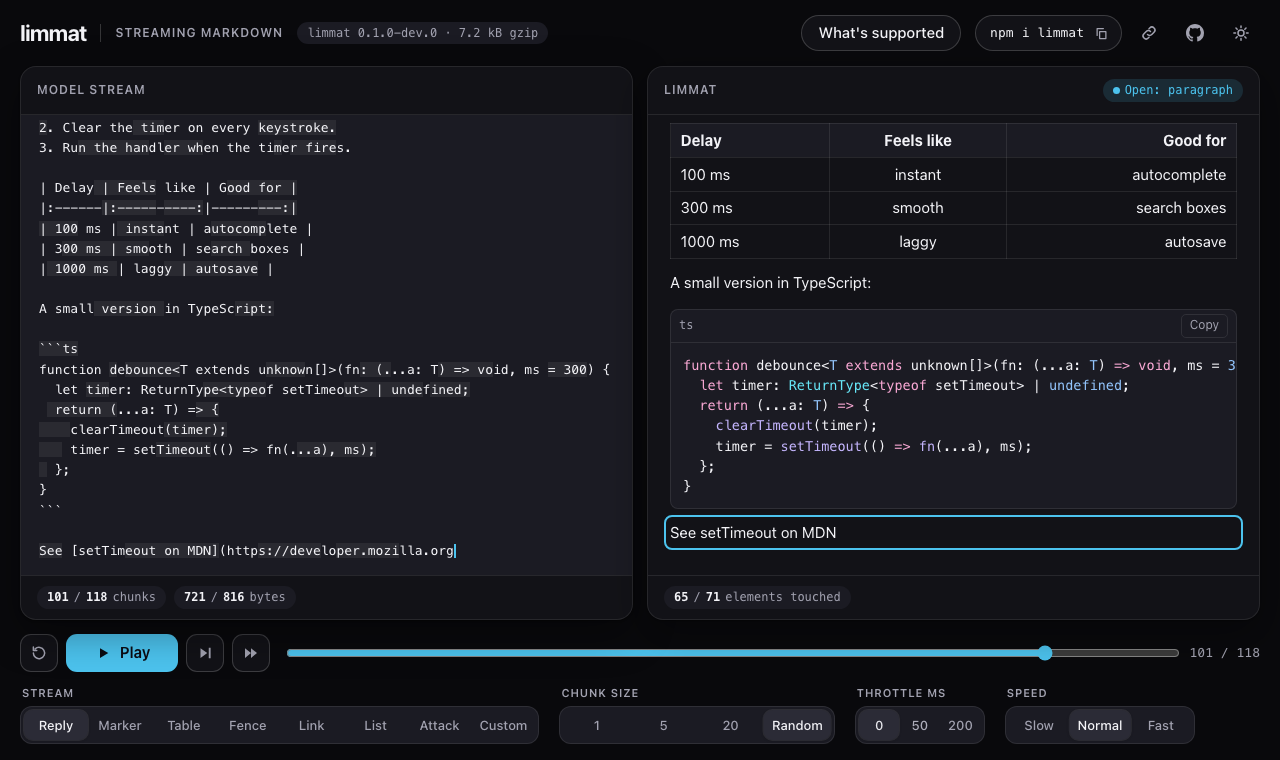
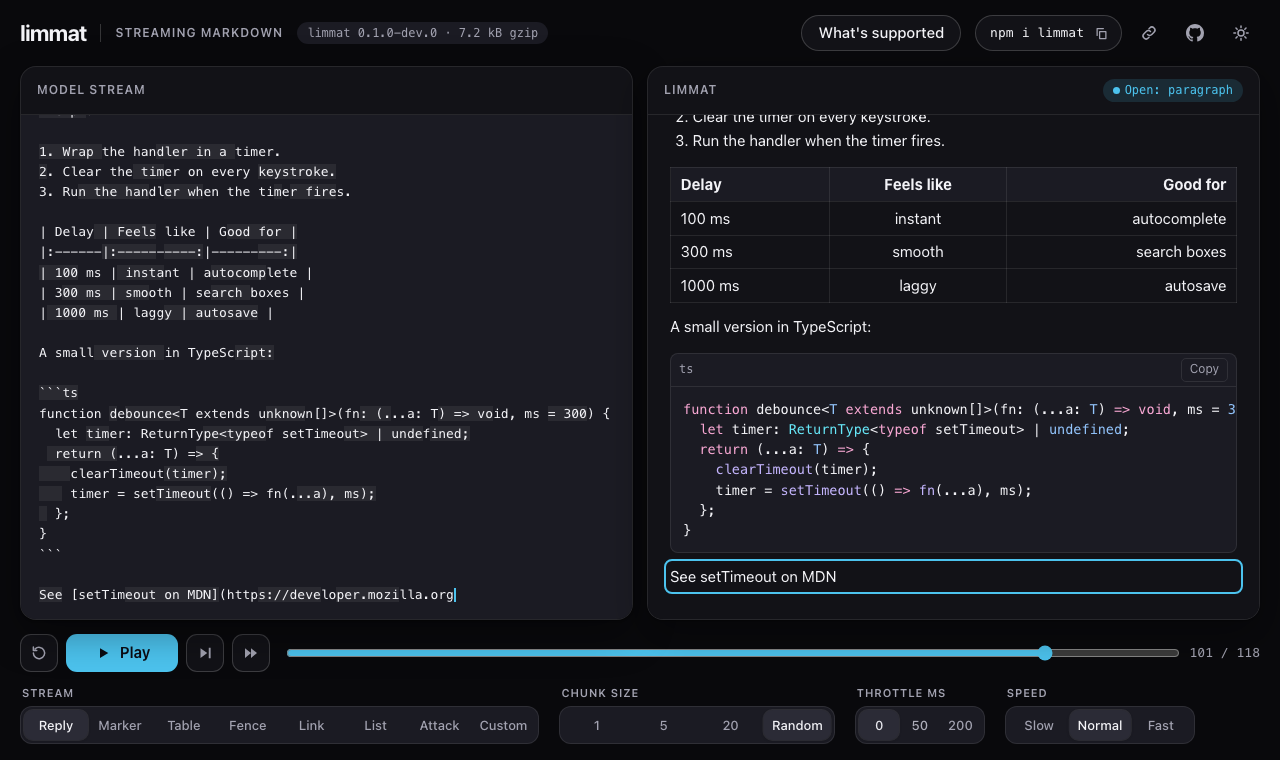
feat(demo): remove the pane footers and move the attack verdict into the output header, in words

diff --git a/browser/demo.spec.ts b/browser/demo.spec.ts
@@ -70,7 +70,7 @@ test('chunk size changes the stream, and Random again reshuffles the cuts', asyn
   await pick(page, 'size', '1');
   await page.click('#finish');
   const chars = Array.from((await page.locator('#raw').textContent())!).length;
-  await expect(page.locator('#v-chunks')).toHaveText(String(chars));
+  await expect(page.locator('#pos')).toHaveAttribute('max', String(chars));
   await pick(page, 'size', 'random');
   const seed = () => new URL(page.url().replace('#', '?')).searchParams.get('s');
   const first = await seed();
@@ -82,10 +82,9 @@ test('the Attack stream runs nothing, loads nothing, and shows the payloads as t
   await open(page);
   await pick(page, 'stream', 'hostile');
   await page.click('#finish');
-  // Twelve attacks went in (counted by pattern in the input), and none came out as a live element.
+  // Hostile input went in (counted by pattern in the text), and nothing came out as a live element.
   await expect(page.locator('#chip-attacks')).toBeVisible();
-  expect(Number(await page.locator('#v-in').textContent())).toBeGreaterThanOrEqual(10);
-  await expect(page.locator('#v-through')).toHaveText('0');
+  await expect(page.locator('#chip-attacks')).toHaveText('Nothing unsafe got through');
   await expect(page.locator('#chip-attacks')).toHaveClass(/safe/);
   const out = page.locator('#out');
   expect(await out.locator('script, img, [onerror], [onclick]').count()).toBe(0);
@@ -116,7 +115,7 @@ test('a chip turns red if the output ever has something unsafe in it', async ({ 
     document.querySelector('#out')!.append(a);
   });
   await expect(page.locator('#chip-attacks')).toHaveClass(/bad/);
-  await expect(page.locator('#v-through')).toHaveText('1');
+  await expect(page.locator('#chip-attacks')).toHaveText('Something unsafe got through');
 });
 
 test('a shared link restores the settings and plays the same chunks', async ({ page }) => {
@@ -176,7 +175,7 @@ test('pasted hostile text is only text, and the proof still holds', async ({ pag
   expect(await page.locator('#out img, #out script, #out a').count()).toBe(0);
   expect(await page.locator('#out').textContent()).toContain('<img src=x onerror=alert(1)>');
   await expect(page.locator('#chip-attacks')).toBeVisible();
-  await expect(page.locator('#v-through')).toHaveText('0');
+  await expect(page.locator('#chip-attacks')).toHaveText('Nothing unsafe got through');
   expect(seen.errors).toEqual([]);
 });
 
@@ -294,23 +293,6 @@ test('with reduced motion nothing autoplays and the finished state is shown', as
   const before = await page.locator('#out').innerHTML();
   await page.waitForTimeout(300);
   expect(await page.locator('#out').innerHTML()).toBe(before);
-});
-
-test('the chips count what was sent and what each render touched', async ({ page }) => {
-  await open(page);
-  await page.click('#finish');
-  const raw = await page.locator('#raw').textContent();
-  const bytes = new TextEncoder().encode(raw!).length;
-  await expect(page.locator('#v-bytes')).toHaveText(String(bytes));
-  await expect(page.locator('#v-bytes-total')).toHaveText(String(bytes));
-  await expect(page.locator('#v-chunks')).toHaveText((await page.locator('#v-chunks-total').textContent()) as string);
-  // The element total follows the output, including late changes from the highlighter, so wait for it to settle.
-  await expect.poll(async () => Number(await page.locator('#v-nodes').textContent()) - (await page.locator('#out *').count())).toBe(0);
-  // Streaming one more chunk into a long reply touches a handful of elements, not the whole output.
-  await page.fill('#pos', '60');
-  const total = Number(await page.locator('#v-nodes').textContent());
-  await page.click('#step');
-  await expect.poll(async () => Number(await page.locator('#v-touched').textContent())).toBeLessThan(total / 2);
 });
 
 for (const [name, setup] of [

diff --git a/demo/js/readouts.js b/demo/js/readouts.js
@@ -58,41 +58,20 @@ function throughCount(all) {
 export function updateReadouts() {
   el.pos.value = String(s.i);
   el.posOut.textContent = `${s.i} / ${s.chunks.length}`;
-  el.v.chunks.textContent = String(s.i);
-  el.v.chunksTotal.textContent = String(s.chunks.length);
-  el.v.bytes.textContent = String(s.bytes);
-  el.v.bytesTotal.textContent = String(s.totalBytes);
   const all = Array.from(el.out.querySelectorAll('*'));
-  el.v.nodes.textContent = String(all.length);
   const through = throughCount(all);
-  const inCount = attacksIn(s.chunks.slice(0, s.i).join(''));
+  const sent = attacksIn(s.chunks.slice(0, s.i).join(''));
   // Shown only when there is something to defend against, or when something got through (which must never happen).
-  el.attacksChip.hidden = inCount === 0 && through === 0;
-  el.v.attacksIn.textContent = String(inCount);
-  el.v.attacksThrough.textContent = String(through);
-  el.attacksChip.classList.toggle('bad', through > 0);
-  el.attacksChip.classList.toggle('safe', inCount > 0 && through === 0);
-}
-
-/** Elements in a node, itself included. */
-const weigh = (n) => (n.nodeType === 1 ? 1 + n.querySelectorAll('*').length : 1);
-
-/** Count what each render touched, straight from the DOM mutation records. */
-function countTouched(records) {
-  let n = 0;
-  for (const r of records) {
-    if (r.type === 'childList') {
-      for (const x of r.addedNodes) n += weigh(x);
-      for (const x of r.removedNodes) n += weigh(x);
-    } else n += 1;
-  }
-  el.v.touched.textContent = String(n);
+  const chip = el.attacksChip;
+  chip.hidden = sent === 0 && through === 0;
+  chip.textContent = through > 0 ? 'Something unsafe got through' : 'Nothing unsafe got through';
+  chip.classList.toggle('bad', through > 0);
+  chip.classList.toggle('safe', sent > 0 && through === 0);
 }
 
 /** Follow the output as it changes, including late changes such as the highlighter adding spans after a fence closes. */
 export function watchOutput() {
   new MutationObserver(markOpen).observe(el.out, { childList: true });
-  new MutationObserver(countTouched).observe(el.out, { childList: true, subtree: true, characterData: true, attributes: true });
   let queued = false;
   new MutationObserver(() => {
     if (queued) return;

diff --git a/demo/index.html b/demo/index.html
@@ -52,18 +52,10 @@
     <header class="pane-head"><h2 id="raw-h">Model stream</h2><span class="chip edit-hint" id="edit-hint" hidden>Click and type to edit</span></header>
     <pre id="raw" class="raw" role="region" aria-labelledby="raw-h" tabindex="0"></pre>
     <textarea id="raw-edit" class="raw edit" aria-label="Edit the markdown" spellcheck="false" maxlength="200000" hidden></textarea>
-    <footer class="pane-foot">
-      <span class="chip" title="Chunks the model has sent so far, out of all of them"><b id="v-chunks">0</b> / <b id="v-chunks-total">0</b> chunks</span>
-      <span class="chip" title="Bytes sent so far, out of all of them"><b id="v-bytes">0</b> / <b id="v-bytes-total">0</b> bytes</span>
-    </footer>
   </div>
   <div class="pane">
-    <header class="pane-head"><h2 id="out-h">limmat</h2><span class="chip state" id="open-readout" data-state="idle">Open: none yet</span></header>
+    <header class="pane-head"><h2 id="out-h">limmat</h2><span class="head-chips"><span class="chip verdict-chip" id="chip-attacks" hidden>Nothing unsafe got through</span><span class="chip state" id="open-readout" data-state="idle">Open: none yet</span></span></header>
     <div id="out" class="rendered" role="region" aria-labelledby="out-h" tabindex="0"></div>
-    <footer class="pane-foot" role="group" aria-label="Live measurements of this output">
-      <span class="chip" id="chip-touched" title="Elements the latest render changed (added, removed, or edited), out of all elements in the output. Finished blocks are left alone, so while text streams in this stays small. It jumps when the whole output is rebuilt, such as after scrubbing. The code highlighter counts too."><b id="v-touched">0</b> / <b id="v-nodes">0</b> elements touched</span>
-      <span class="chip" id="chip-attacks" title="Unsafe patterns found in the text streamed so far (script tags, images, on... handlers, unsafe links), and how many of them ended up as a live element or link in the output." hidden><b id="v-in">0</b> attacks in, <b id="v-through">0</b> through</span>
-    </footer>
   </div>
 
   <section class="panel" id="panel-support" aria-labelledby="support-h" inert>

diff --git a/demo/js/player.js b/demo/js/player.js
@@ -1,6 +1,6 @@
 // The stream player: feeds chunks to a real limmat renderer, mirrors them in the raw pane, and scrubs.
 import { createRenderer } from '../limmat.min.js';
-import { follow, make, say, utf8 } from './dom.js';
+import { follow, make, say } from './dom.js';
 import { el } from './els.js';
 import { highlight } from './hlcache.js';
 import { markOpen, updateReadouts } from './readouts.js';
@@ -29,7 +29,6 @@ function rebuildChunks() {
   const st = STREAMS[s.stream];
   s.chunks = st.chunks ? st.chunks.slice() : chunkText(textOf(st), s.size, s.random, s.seed);
   el.pos.max = String(s.chunks.length);
-  s.totalBytes = utf8.encode(s.chunks.join('')).length;
   syncSizeEnabled();
 }
 
@@ -48,7 +47,6 @@ function writeChunk(showRaw = true) {
   const chunk = s.chunks[s.i];
   if (showRaw) appendRaw(chunk, s.i);
   s.r.write(chunk);
-  s.bytes += utf8.encode(chunk).length;
   s.i++;
 }
 
@@ -96,7 +94,7 @@ export function pause() {
 
 export function reset(autoplay) {
   clearTimeout(s.timer);
-  Object.assign(s, { playing: false, ended: false, i: 0, bytes: 0, scrubbed: false, lastSpan: null });
+  Object.assign(s, { playing: false, ended: false, i: 0, scrubbed: false, lastSpan: null });
   el.raw.replaceChildren();
   newRenderer();
   rebuildChunks();
@@ -146,7 +144,6 @@ export function scrub(target) {
   s.lastSpan?.classList.remove('new');
   s.r.write(prefix.join(''));
   s.i = target;
-  s.bytes = utf8.encode(prefix.join('')).length;
   if (target >= s.chunks.length) {
     s.r.end();
     s.ended = true;
@@ -167,8 +164,6 @@ export function edit(text) {
     i: s.chunks.length,
     ended: false,
     scrubbed: true,
-    bytes: utf8.encode(text).length,
-    totalBytes: utf8.encode(text).length,
   });
   el.pos.max = String(s.chunks.length);
   syncSizeEnabled();

diff --git a/demo/js/els.js b/demo/js/els.js
@@ -15,15 +15,5 @@ export const el = {
   openChip: $('#open-readout'),
   customText: $('#custom-text'),
   customGo: $('#custom-go'),
-  v: {
-    chunks: $('#v-chunks'),
-    chunksTotal: $('#v-chunks-total'),
-    bytes: $('#v-bytes'),
-    bytesTotal: $('#v-bytes-total'),
-    touched: $('#v-touched'),
-    nodes: $('#v-nodes'),
-    attacksIn: $('#v-in'),
-    attacksThrough: $('#v-through'),
-  },
   attacksChip: $('#chip-attacks'),
 };

diff --git a/demo/css/layout.css b/demo/css/layout.css
@@ -67,20 +67,14 @@ body {
   box-shadow: var(--shadow);
   overflow: hidden;
 }
-.pane-head,
-.pane-foot {
+.pane-head {
   display: flex;
   align-items: center;
   flex-wrap: wrap;
   gap: 8px;
   padding: 10px 16px;
-}
-.pane-head {
   min-height: 48px;
   border-bottom: 1px solid var(--line);
-}
-.pane-foot {
-  border-top: 1px solid var(--line);
 }
 
 .panel {

diff --git a/demo/css/components.css b/demo/css/components.css
@@ -329,7 +329,10 @@ h3 {
   color: var(--fg);
   font-weight: 600;
 }
-.pane-head .state {
+.head-chips {
+  display: flex;
+  align-items: center;
+  gap: 8px;
   margin-left: auto;
 }
 .state::before {

diff --git a/demo/js/state.js b/demo/js/state.js
@@ -12,8 +12,6 @@ export const s = {
   ended: false,
   timer: 0,
   r: null,
-  totalBytes: 0,
-  bytes: 0,
   customText: '',
   hl: null,
   scrubbed: false,
